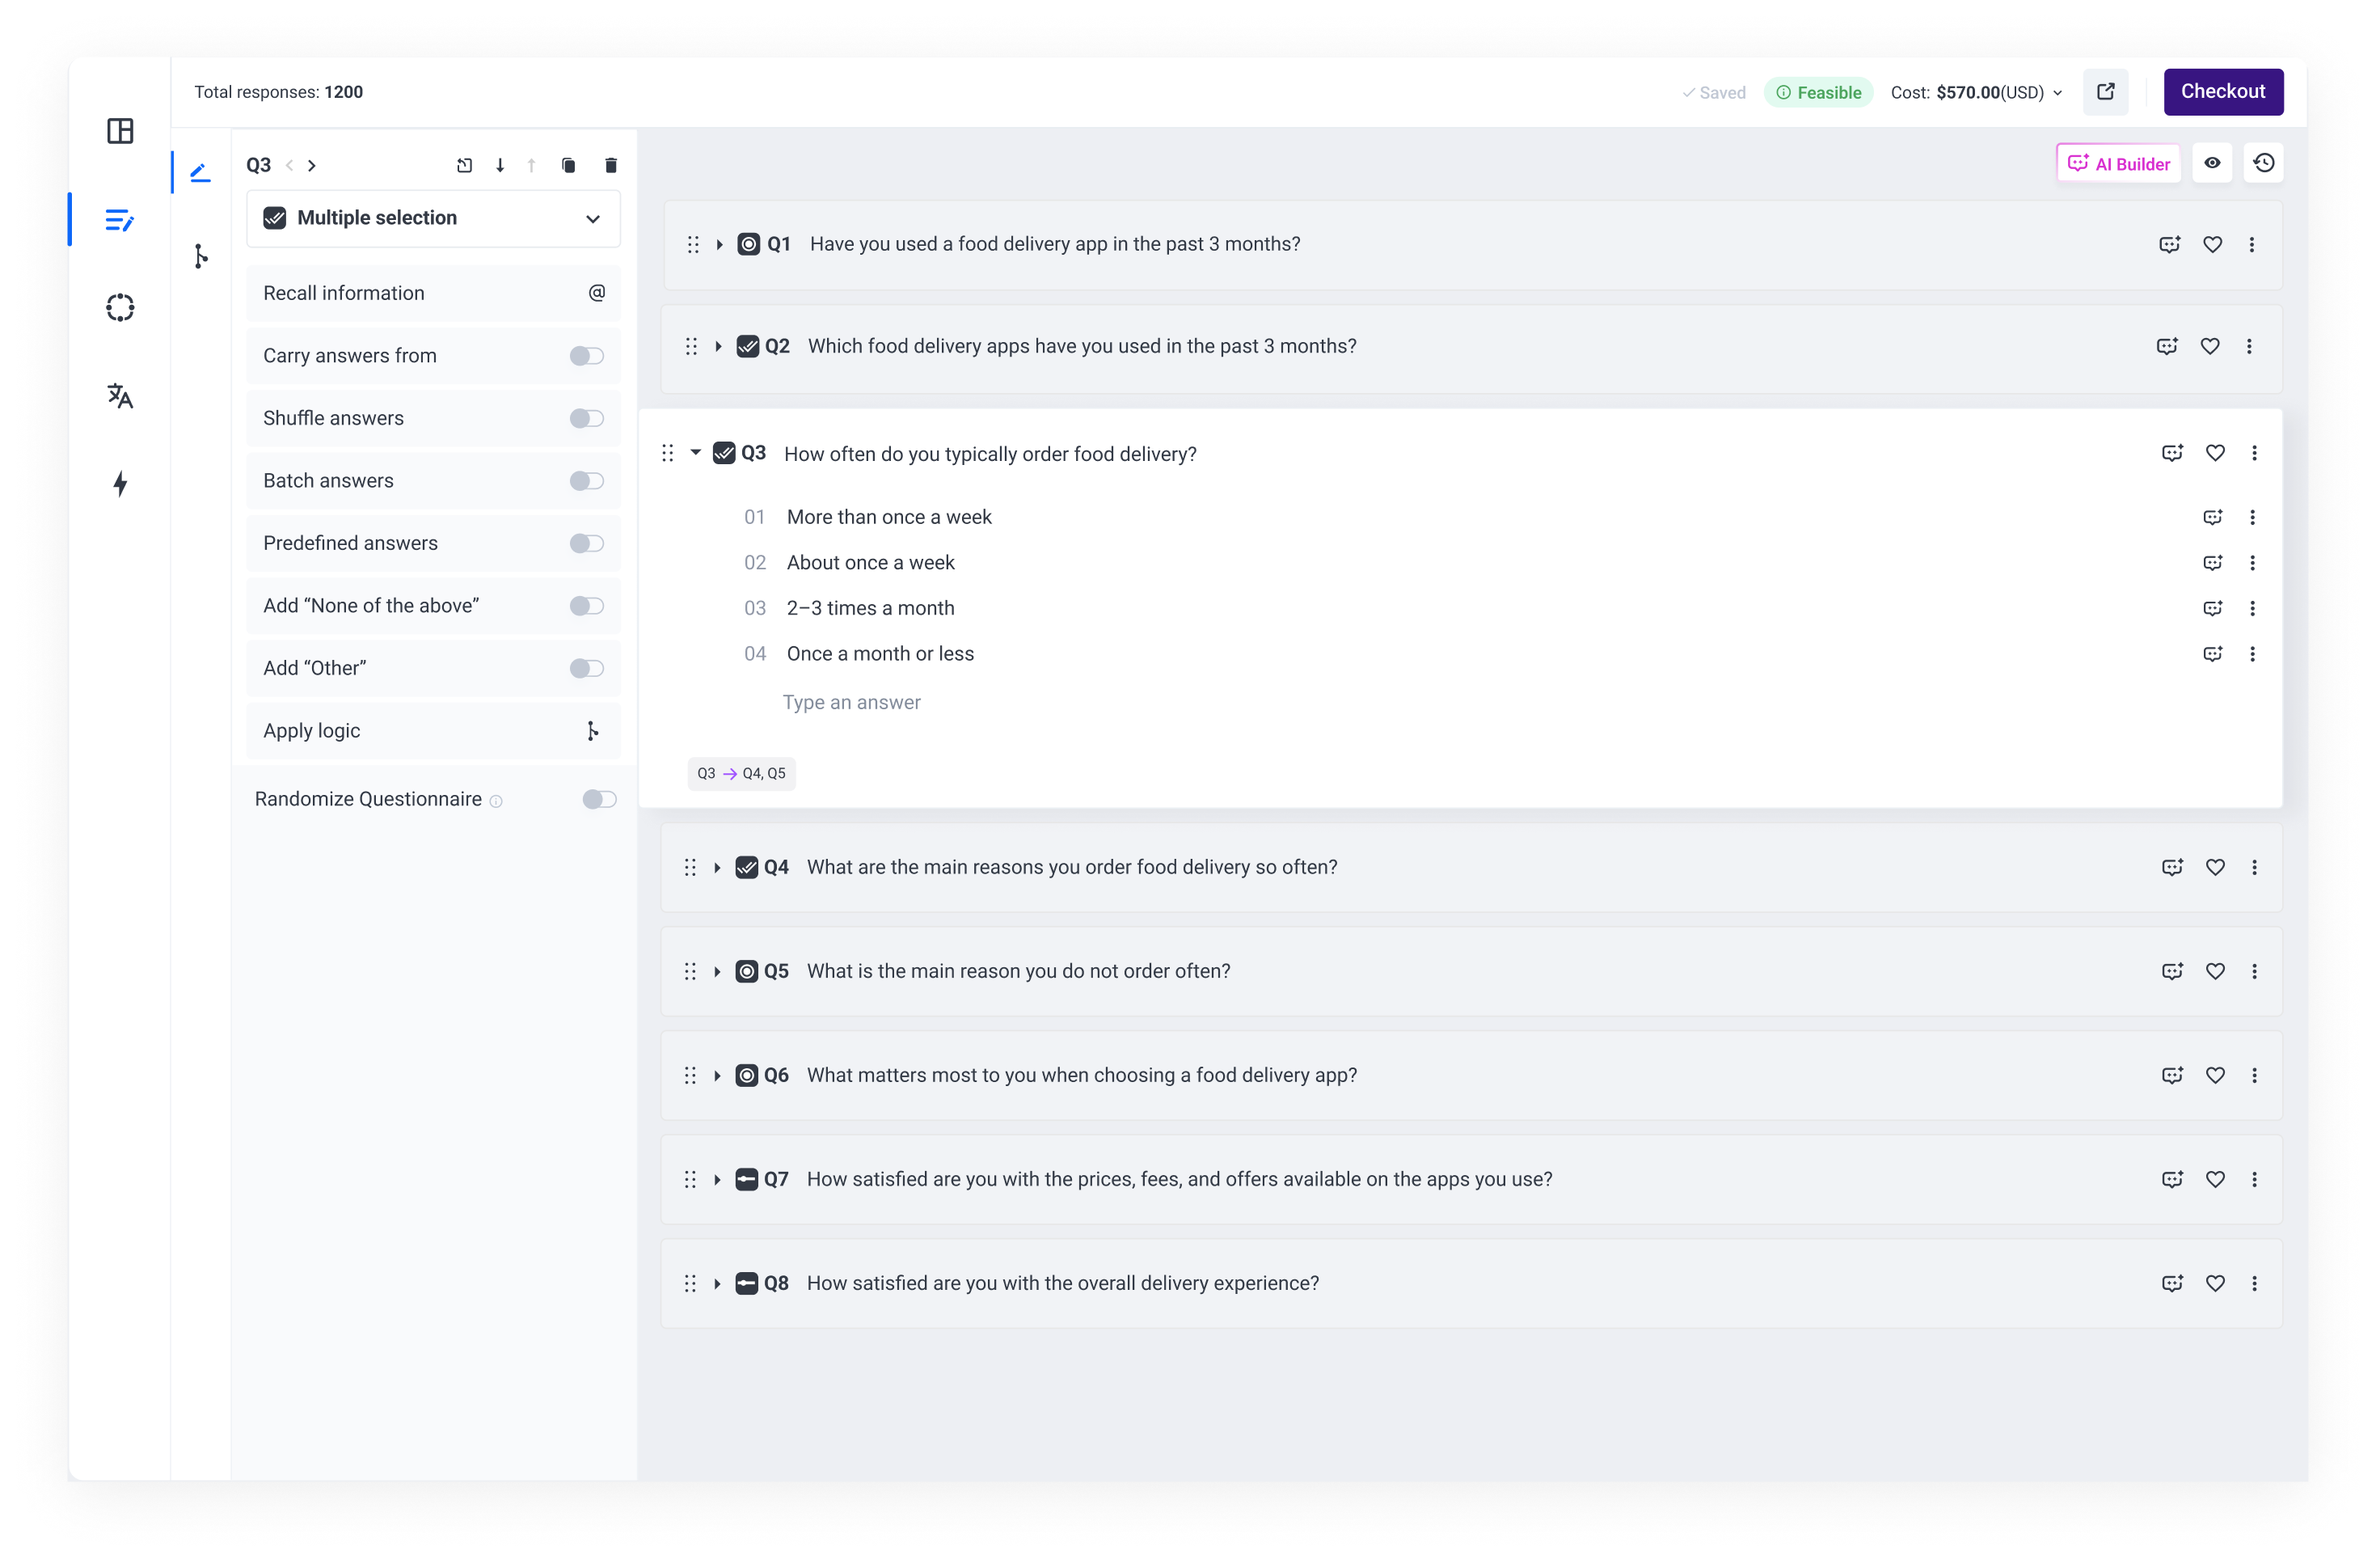
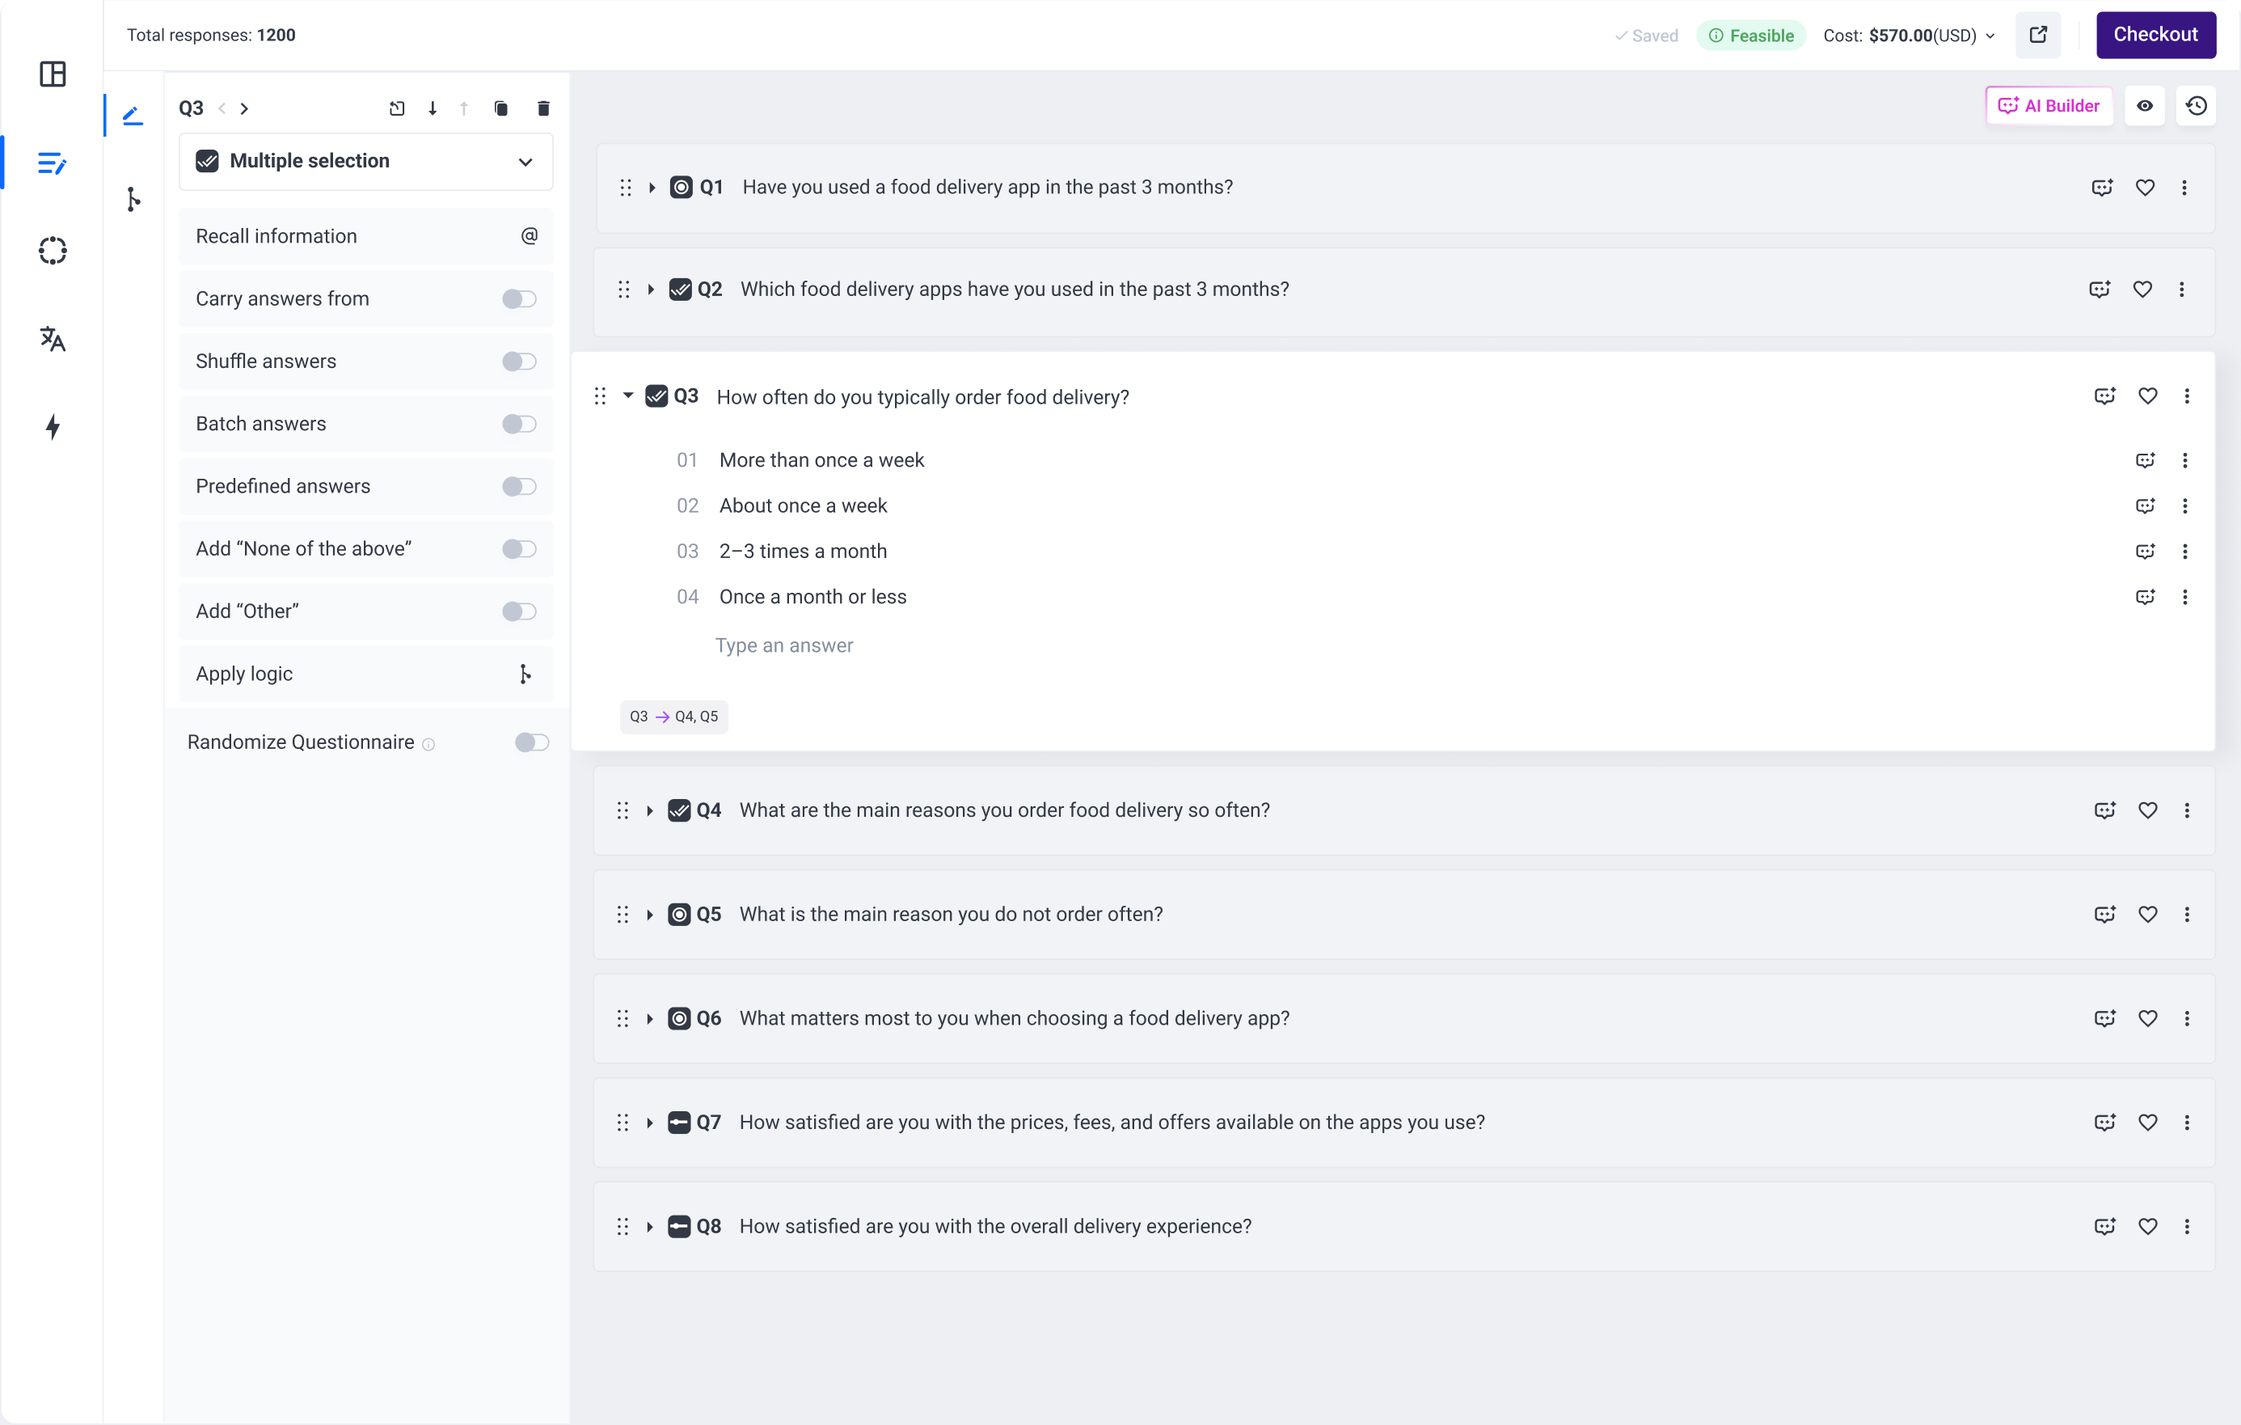
Add Questionnaire Builder page and wire homepage/top-menu links

diff --git a/src/app/pollfish/questionnaire-builder/page.tsx b/src/app/pollfish/questionnaire-builder/page.tsx
@@ -1,0 +1,108 @@
+import Image from "next/image";
+import { SiteFooter } from "@/components/sections/site-footer";
+import { SiteTopBar } from "@/components/sections/site-top-bar";
+import { siteContent } from "@/content/site";
+
+const QUESTIONNAIRE_TITLE = "Questionnaire Builder";
+const QUESTIONNAIRE_DESCRIPTION =
+  "I led the evolution of Pollfish’s core survey creation system, from quick validation surveys to complex research studies. I introduced advanced methods, logic, and dynamic structures while keeping the builder intuitive for both new and expert researchers.";
+const QUESTIONNAIRE_CHIPS = [
+  "Survey creation system",
+  "Advanced Survey Logic",
+  "2018 - Present",
+] as const;
+
+function getQuestionnaireEntry() {
+  const pollfishCaseStudy = siteContent.caseStudies.find(
+    (study) => study.id === "pollfish",
+  );
+  return pollfishCaseStudy?.entries.find(
+    (entry) => entry.id === "pollfish-questionnaire",
+  );
+}
+
+export default function QuestionnaireBuilderCaseStudyPage() {
+  const questionnaireEntry = getQuestionnaireEntry();
+  const details = questionnaireEntry?.details ?? [];
+
+  return (
+    <>
+      <main className="bg-[#040404]">
+        <header
+          className="relative overflow-hidden border-b border-white/[0.15] bg-[#141314]"
+          id="top"
+        >
+          <SiteTopBar anchorBasePath="/" content={siteContent} />
+
+          <div className="mx-auto mt-[120px] w-full max-w-[1600px] px-5 sm:px-8 lg:px-[84px]">
+            <div className="mx-auto w-full max-w-[710px] text-center">
+              <h1 className="font-aeonik text-[44px] font-semibold leading-[1.05] text-white sm:text-[56px]">
+                {QUESTIONNAIRE_TITLE}
+              </h1>
+
+              <p className="font-figtree mt-7 text-[20px] leading-[30px] text-[#dbd6df]">
+                {QUESTIONNAIRE_DESCRIPTION}
+              </p>
+
+              <div className="mt-9 flex flex-wrap items-center justify-center gap-3">
+                {QUESTIONNAIRE_CHIPS.map((chip, index) => (
+                  <div className="flex items-center gap-3" key={chip}>
+                    <span className="rounded-[30px] border border-[#2b2b2b] bg-[rgba(47,47,47,0.24)] px-4 py-2 font-figtree text-[16px] text-[#c2c2c2]">
+                      {chip}
+                    </span>
+                    {index < QUESTIONNAIRE_CHIPS.length - 1 && (
+                      <span className="h-[3px] w-[3px] rounded-full bg-[#c2c2c2]" />
+                    )}
+                  </div>
+                ))}
+              </div>
+            </div>
+          </div>
+
+          <div className="mx-auto mt-[120px] w-full max-w-[1600px] px-5 sm:px-8 lg:px-0">
+            <div className="mx-auto w-full max-w-[1133px]">
+              <Image
+                alt="Questionnaire Builder interface preview"
+                className="h-auto w-full object-contain"
+                height={720}
+                priority
+                sizes="(min-width: 1200px) 1133px, 100vw"
+                src="/images/pollfish-questionnaire.png"
+                width={1133}
+              />
+            </div>
+          </div>
+        </header>
+
+        <section className="bg-[#181818] pb-[160px] pt-[120px]">
+          <div className="mx-auto w-full max-w-[1600px] px-5 text-white sm:px-8 lg:px-[84px]">
+            <div className="mx-auto w-full max-w-[986px]">
+              <h2 className="font-aeonik text-[40px] font-bold leading-[1.2] text-white sm:text-[50px] sm:leading-[1]">
+                Case Study Snapshot
+              </h2>
+
+              <div className="mt-20 space-y-10">
+                {details.map((detail) => (
+                  <div
+                    className="grid gap-5 sm:gap-8 md:grid-cols-[134px_1fr] md:gap-[125px]"
+                    key={detail.title}
+                  >
+                    <p className="font-figtree text-[24px] font-bold leading-[1.2] text-white">
+                      {detail.title}
+                    </p>
+                    <div className="space-y-3 font-figtree text-[20px] leading-[30px] text-[#f5f5f5]">
+                      {detail.items.map((item) => (
+                        <p key={item}>{item}</p>
+                      ))}
+                    </div>
+                  </div>
+                ))}
+              </div>
+            </div>
+          </div>
+        </section>
+      </main>
+      <SiteFooter content={siteContent} />
+    </>
+  );
+}

diff --git a/src/components/sections/pollfish-case-study.tsx b/src/components/sections/pollfish-case-study.tsx
@@ -81,11 +81,13 @@ function PollfishIntro() {
 
 function PollfishFeatureCard({
   entry,
+  href = "#",
   id,
   gradient,
   imageSrc,
 }: {
   entry: CaseStudyEntry;
+  href?: string;
   id: string;
   gradient: string;
   imageSrc: string;
@@ -112,13 +114,13 @@ function PollfishFeatureCard({
             ))}
           </div>
 
-          <a
+          <Link
             className="font-figtree mt-8 inline-flex items-center gap-3 text-[16px] font-bold text-[#222] transition-opacity hover:opacity-75 focus-visible:outline-none focus-visible:ring-2 focus-visible:ring-[#222]/35"
-            href="#"
+            href={href}
           >
-            View case study
+            {entry.ctaLabel ?? "View case study"}
             <ArrowRightIcon />
-          </a>
+          </Link>
         </div>
       </div>
 
@@ -256,6 +258,7 @@ export function PollfishCaseStudySection({ study }: PollfishCaseStudySectionProp
           <PollfishFeatureCard
             entry={questionnaireEntry}
             gradient="bg-[linear-gradient(128deg,#eff4f9_12%,#e7ebf4_49%,#e9d4f3_100%)]"
+            href="/pollfish/questionnaire-builder"
             id="pollfish-questionnaire-builder"
             imageSrc="/images/pollfish-questionnaire.png"
           />

diff --git a/src/components/sections/site-top-bar.tsx b/src/components/sections/site-top-bar.tsx
@@ -17,7 +17,7 @@ interface PollfishMenuItem {
 
 const POLLFISH_MENU_ITEMS: PollfishMenuItem[] = [
   { label: "AI Builder", href: "/pollfish/ai-builder" },
-  { label: "Questionnaire Builder", href: "/#pollfish-questionnaire-builder" },
+  { label: "Questionnaire Builder", href: "/pollfish/questionnaire-builder" },
   { label: "AI Report", href: "/#pollfish-ai-report" },
 ];
 
